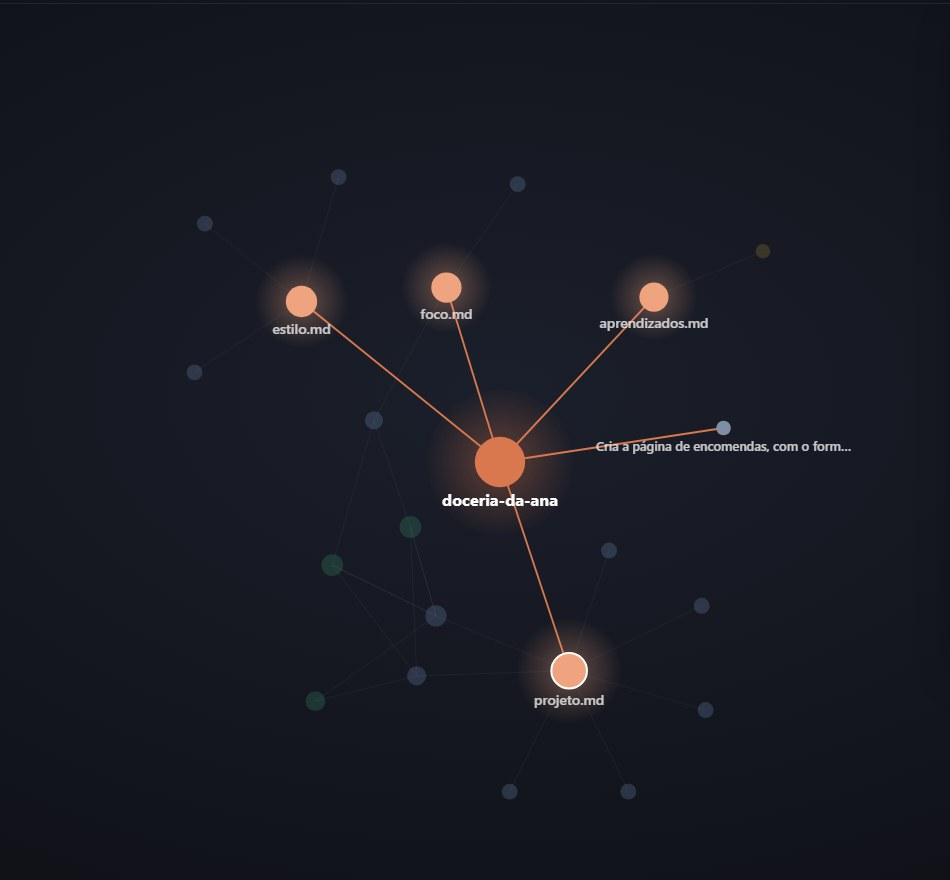
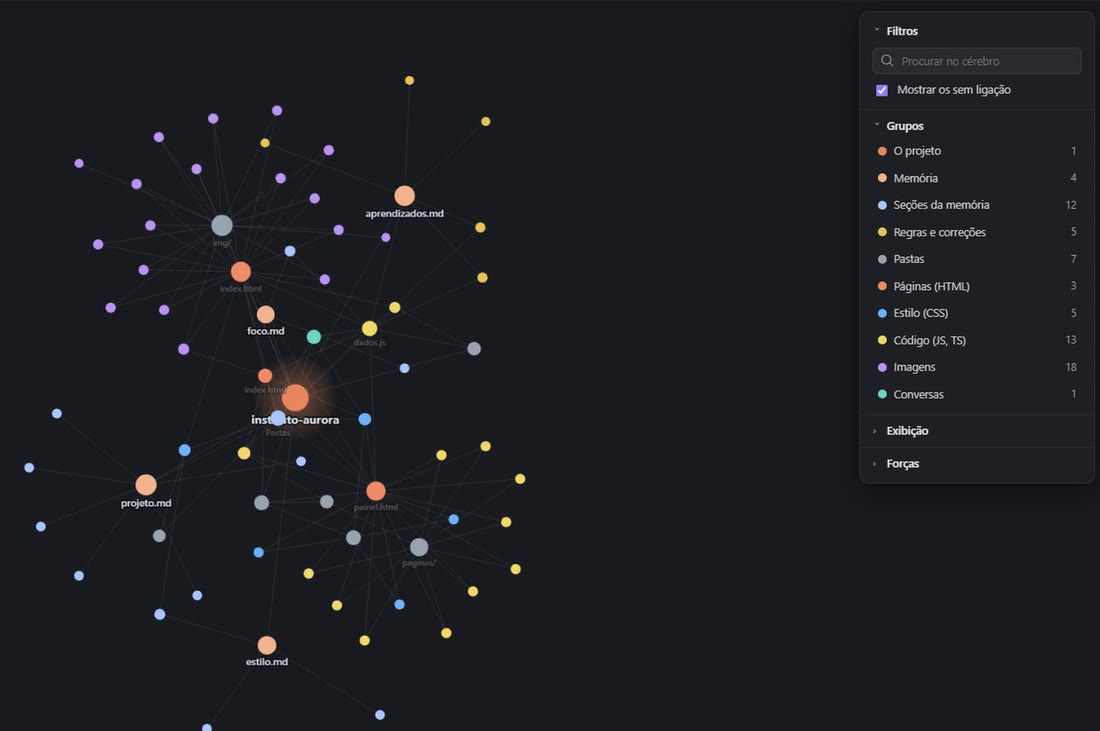
agentic: o Ver por dentro abre a VSL com som, e o cérebro novo

diff --git a/agentic/index.html b/agentic/index.html
@@ -462,7 +462,7 @@ window.semVSL = function () {
     <h1 class="revela">Descreva o site e o sistema. <em>A sua equipe de IA constrói</em> na sua frente.</h1>
     <p class="lead revela">O <strong>Agentic Code</strong> é uma IDE completa, como o VS Code, com a IA no centro: você pede no chat, uma equipe de agentes escreve o código, e você vê o site e o sistema ganhando forma na prévia. E ele tem um cérebro, o Agentic OS, que lembra do projeto e aprende com você.</p>
     <div class="acao revela">
-      <div class="botoes"><a class="botao" href="#oferta" data-onde="heroi" data-medir="ver_oferta_heroi">Quero o Agentic Code</a><a class="botao botao-claro" href="#telas" data-medir="ver_por_dentro">Ver por dentro</a></div>
+      <div class="botoes"><a class="botao" href="#oferta" data-onde="heroi" data-medir="ver_oferta_heroi">Quero o Agentic Code</a><a class="botao botao-claro" href="#vsl" id="ver-por-dentro" data-medir="ver_por_dentro">Ver por dentro</a></div>
       <div class="confianca"><span>Windows 10 e 11</span><span>Com o seu Claude Code, Codex ou Antigravity</span><span>7 dias de garantia</span></div>
     </div>
     <div class="janela revela">
@@ -645,16 +645,16 @@ window.semVSL = function () {
         <div class="tela-texto revela">
           <p class="etiqueta-tela">O CÉREBRO DO PROJETO</p>
           <h3>Veja o que a sua IA sabe. <em>Literalmente.</em></h3>
-          <p>Um clique e a memória vira um mapa, como no Obsidian: o projeto no centro, ligado aos arquivos da memória, a cada regra que você ensinou, às skills e às conversas. Clique num ponto e leia o que tem dentro, ou abra no editor.</p>
+          <p>Um clique e o projeto vira um mapa, como no Obsidian: o projeto no centro, ligado à memória, a cada regra que você ensinou, às pastas, às páginas, ao código e às conversas, cada grupo numa cor. Clique num ponto e leia o que tem dentro, ou abra no editor.</p>
           <ul class="lista-check">
-            <li>Cada regra guardada vira um ponto ligado ao projeto</li>
-            <li>Arraste, aproxime e explore</li>
-            <li>Do ponto pro arquivo em um clique</li>
+            <li>Cada arquivo, regra e conversa vira um ponto ligado ao projeto</li>
+            <li>Filtre por grupo, procure, arraste e aproxime</li>
+            <li>O "Animar" mostra o projeto crescendo, ponto a ponto</li>
           </ul>
         </div>
         <div class="janela revela">
-          <div class="barra"><b>O cérebro do projeto · doceria-da-ana</b><i></i><i></i><i></i></div>
-          <img src="img/os-cerebro.jpg" alt="O cérebro do projeto: o grafo da memória da Doceria da Ana, com o projeto no centro ligado aos arquivos da memória, às seções e às conversas" width="1100" height="880" loading="lazy">
+          <div class="barra"><b>O cérebro do projeto · instituto-aurora</b><i></i><i></i><i></i></div>
+          <img src="img/os-cerebro.jpg" alt="O cérebro do projeto: o mapa do Instituto Aurora, com o projeto no centro ligado à memória, às regras, às pastas, às páginas, ao código, às imagens e às conversas, e o painel dos grupos ao lado" width="1100" height="731" loading="lazy">
         </div>
       </div>
 
@@ -872,6 +872,16 @@ document.addEventListener("DOMContentLoaded", function () {
   var barra = document.querySelector(".progresso"), pedido = false;
   function andar() { pedido = false; var t = document.documentElement; barra.style.transform = "scaleX(" + Math.min(1, t.scrollTop / Math.max(1, t.scrollHeight - innerHeight)) + ")"; }
   addEventListener("scroll", function () { if (!pedido) { pedido = true; requestAnimationFrame(andar); } }, { passive: true });
+});
+</script>
+<script>
+/* "Ver por dentro" (20/11/2026, pedido do dono): leva até a VSL e começa a tocar com som, como o "Toque pra ouvir". */
+document.getElementById("ver-por-dentro").addEventListener("click", function (e) {
+  var v = document.getElementById("vsl"), som = document.getElementById("som");
+  if (!v) return;
+  e.preventDefault();
+  v.closest(".janela").scrollIntoView({ behavior: "smooth", block: "center" });
+  if (som && !som.hidden) som.click(); else v.play().catch(function () {});
 });
 </script>
 </body>
